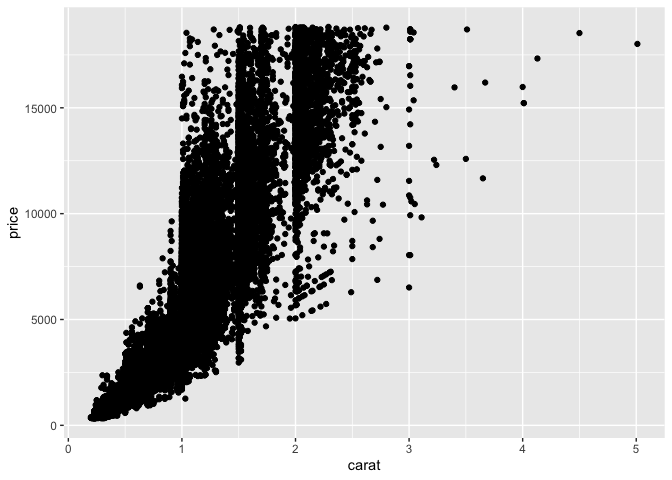
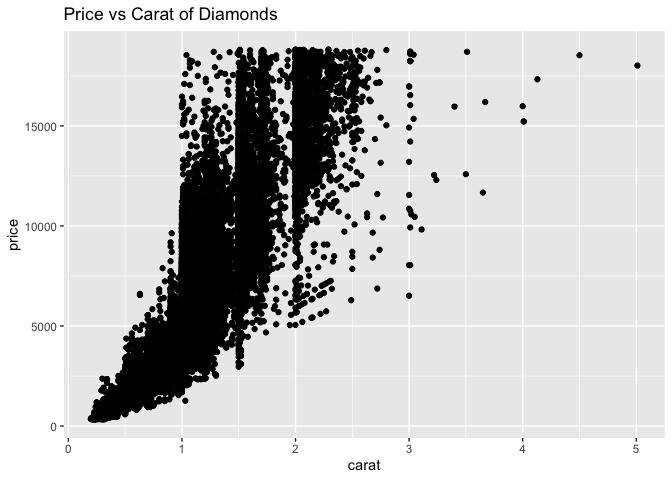
[27012025] Final submission for challenge 00.

diff --git a/challenges/c00-diamonds-assignment.md b/challenges/c00-diamonds-assignment.md
@@ -101,7 +101,8 @@ document your observations.
 
 diamonds %>%
   ggplot(aes(carat, price)) +
-  geom_point()
+  geom_point() + 
+  ggtitle("Price vs Carat of Diamonds") 
 ```
 
 ![](c00-diamonds-assignment_files/figure-gfm/q1-task-1.png)<!-- -->
@@ -128,7 +129,8 @@ Other interesting observations:
 
 diamonds %>%
   ggplot(aes(x = carat, y = price, colour = cut)) +
-  geom_point()
+  geom_point() + 
+  ggtitle("Price vs Carat and Cut of Diamonds") 
 ```
 
 ![](c00-diamonds-assignment_files/figure-gfm/q2-task-1.png)<!-- -->
